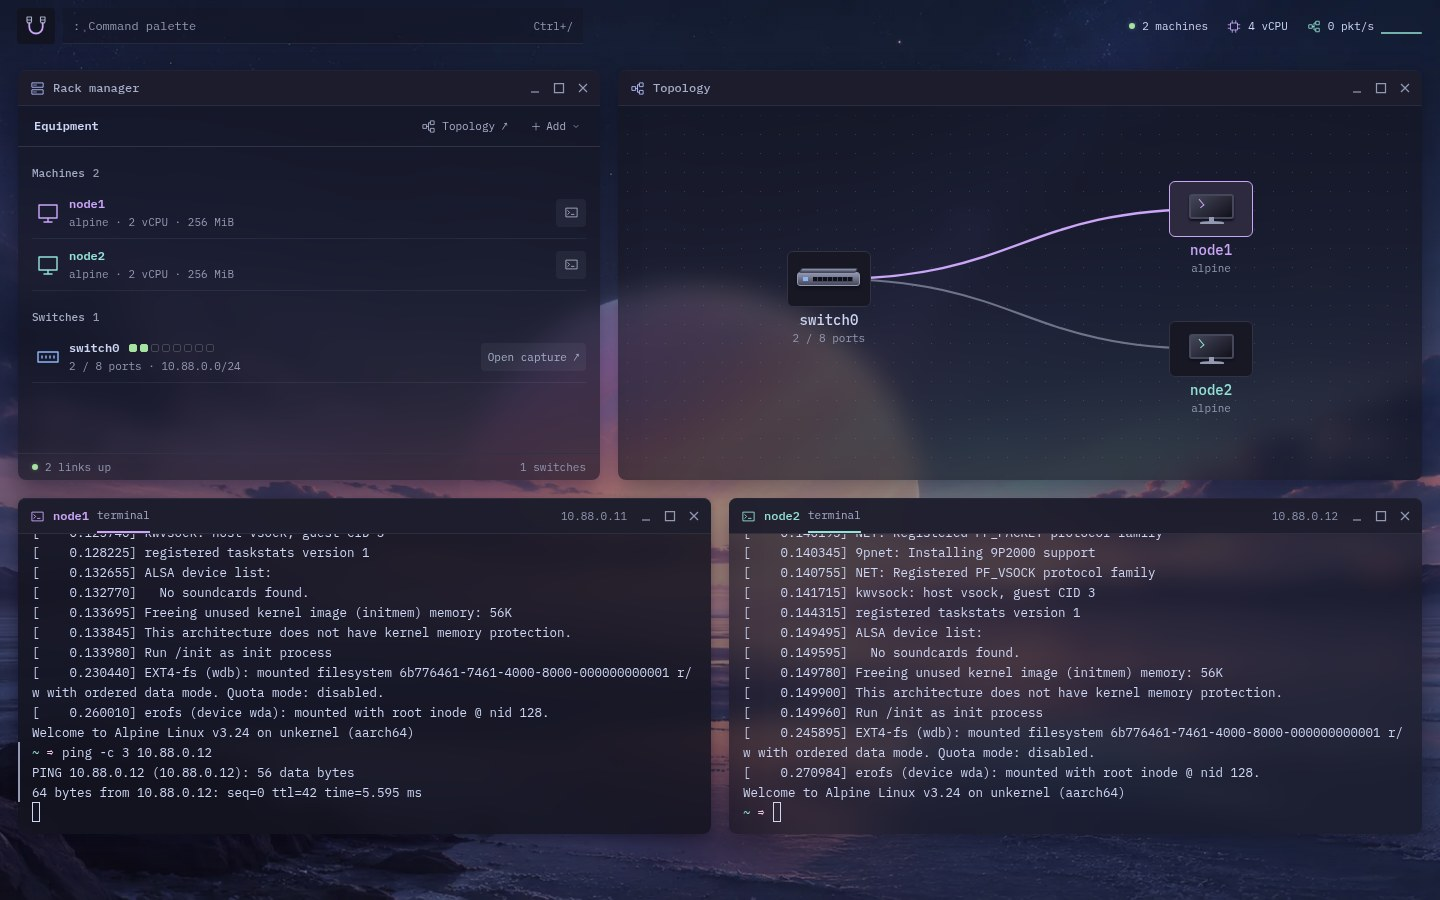
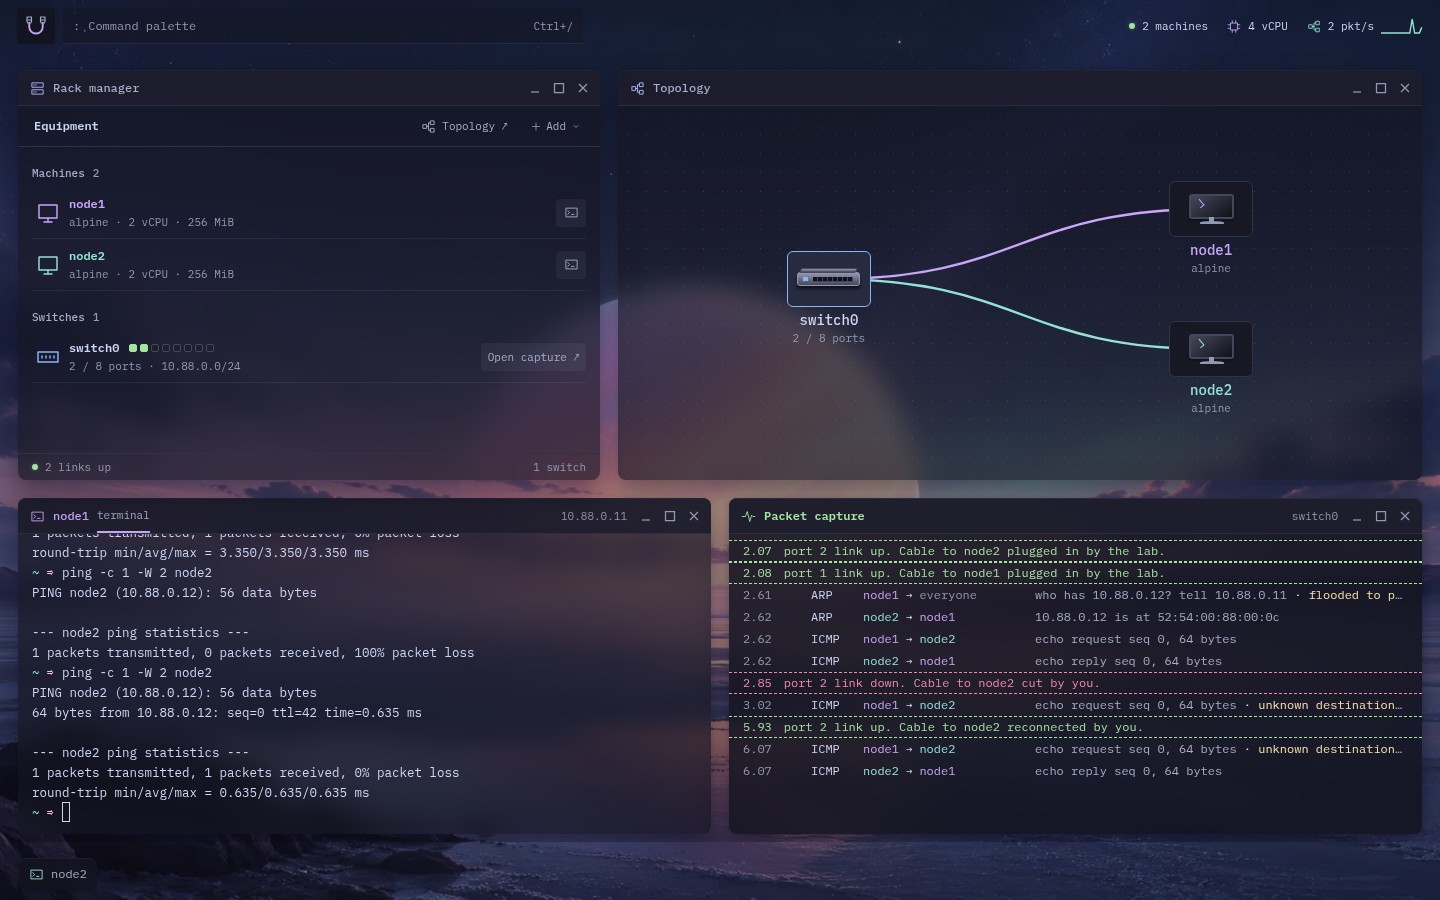
docs(readme): follow a ping through a cable cut and recovery

diff --git a/README.md b/README.md
@@ -8,6 +8,7 @@ play with networking between linux boxes right in a tab. Send a ping, pull a
 cable, and see what happens to the packets.
 
 **[Open the live lab](https://unlab.run/)** ·
+[Follow your first ping](#follow-your-first-ping) ·
 [Reach it from your terminal](#reach-the-lab-from-your-terminal) ·
 [Run locally](#run-locally) · [Contribute](#contribute)
 
@@ -19,18 +20,32 @@ the tab before launching the app so it can open that lab.
 
 ## Follow your first ping
 
-1. In **Welcome to unLAB**, select **Boot 2 machines**. The preview shows the
-   names, addresses and switch ports before either guest starts. For CPU, disk
-   and network settings, select **Customize machines**.
-2. In **Rack manager**, select **node1**. When both guests are ready, select
-   **Ping node2** under **Network**. The replies appear in node1’s terminal.
-3. Beside **switch0** in the rack, select **Open capture** to follow traffic.
-   For frame headers, cable filters and a Wireshark download, open the logo menu
-   and choose **Packet capture → Packet inspector**.
-4. Select **switch0** in the rack. Cut the cable to node2, watch its port block
-   change, then reconnect it. Open **Topology** to see how the machines are wired.
+In a fresh lab, send one ping, cut the cable, and try the same ping again.
 
-![The running desktop with the rack, network topology and two terminals.](docs/images/desktop-lab.jpg)
+1. In **Welcome to unLAB**, keep the two Alpine machines and select **Boot 2 machines**.
+   Wait for **2 links up** in **Rack manager**.
+2. In node1's terminal, run the command below. It sends one ping to node2 and
+   waits up to two seconds for a reply.
+
+   ```sh
+   ping -c 1 -W 2 node2
+   ```
+
+3. Look for `0% packet loss` in the terminal. In **Rack manager**, select
+   **Open capture** beside **switch0**. Find the ICMP `echo request` from node1
+   to node2 and the `echo reply` going back to node1.
+4. Select **switch0** in the rack. In the **node2** port row, select **Cut cable**.
+   When the link reads `cut`, repeat the command in node1's terminal. This time
+   the summary reads `100% packet loss`. No new echo reply appears in the capture.
+5. Select **Reconnect** in the same port row. When the link reads `up`, repeat
+   the ping. A new echo reply appears in the capture and packet loss returns to 0%.
+
+To bring the terminal forward, select the terminal icon beside **node1** in the rack.
+You can also select **node1** itself and choose **Ping node2** under **Network**.
+For frame headers, capture filters, or a Wireshark download, open
+**Packet capture** in the logo menu and choose **Packet inspector**.
+
+![Node1 reports 100% packet loss with its peer disconnected, then 0% after reconnecting. The switch capture shows the cable events and the returning echo reply.](docs/images/desktop-lab.jpg)
 
 Drag a window by its title bar, double-click to maximize it, or minimize it to
 the bottom-left dock. Right-click a title bar, a machine, a switch or the desktop
